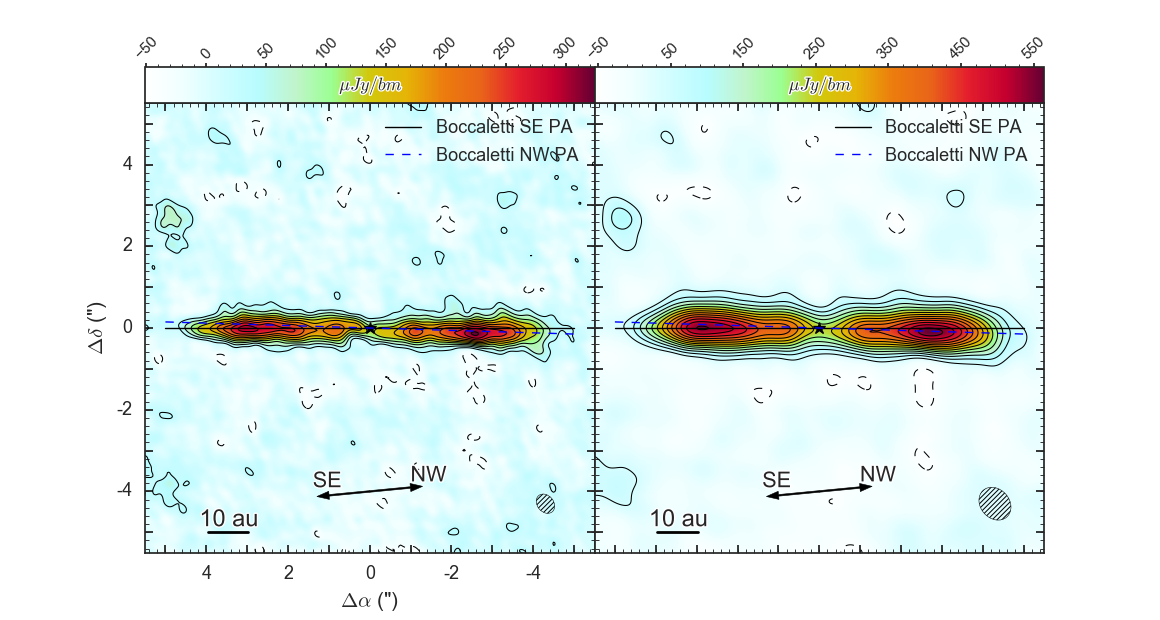
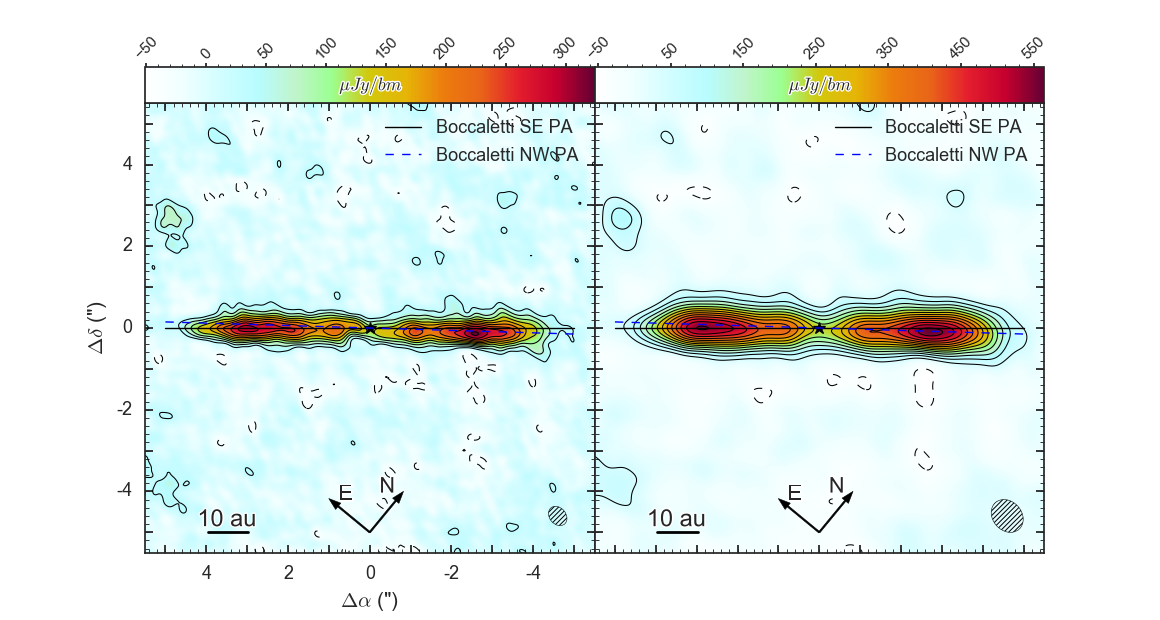
worked on boccaletti plots

diff --git a/Imaging/Plots/contourPlotter+analysis.py b/Imaging/Plots/contourPlotter+analysis.py
@@ -81,11 +81,11 @@ def return_axis(ax, image, cpal, cbmin, cbmax, cbtmj, cbtmn, rms, cont_levs, tex
     # Plot image as a colour map in units of micro Jy
     im = im * 1e6
     cmap = ax.imshow(im,
-                      extent=[cxmin, cxmax, cymin, cymax],
-                      vmin=np.min(im),
-                      vmax=np.max(im),
-                      origin='lower',
-                      cmap=cpal)
+                     extent=[cxmin, cxmax, cymin, cymax],
+                     vmin=np.min(im),
+                     vmax=np.max(im),
+                     origin='lower',
+                     cmap=cpal)
 
     # Scale countour levels to micro Jy and plot contours
     cont_levs = cont_levs * rms * 1e6
@@ -139,14 +139,14 @@ def return_axis(ax, image, cpal, cbmin, cbmax, cbtmj, cbtmn, rms, cont_levs, tex
 
     # Colorbar label
     cbar.ax.text(0.432, 0.365, r'$\mu Jy / bm$', fontsize=13,
-             path_effects=[PathEffects.withStroke(linewidth=2, foreground="w")])
+                 path_effects=[PathEffects.withStroke(linewidth=2, foreground="w")])
 
     # Overplot the beam ellipse
     beam_ellipse_color = 'k'
     bmin = head['bmin'] * 3600.
     bmaj = head['bmaj'] * 3600.
     bpa = head['bpa']
-    el = Ellipse(xy=[-4.3, -4.3],
+    el = Ellipse(xy=[-4.6, -4.6],
                  width=bmin,
                  height=bmaj,
                  angle=-bpa + angleSE,
@@ -160,7 +160,7 @@ def return_axis(ax, image, cpal, cbmin, cbmax, cbtmj, cbtmn, rms, cont_levs, tex
     x = 3.97
     y = -5
     ax.plot([x, x - 1], [y, y], '-', linewidth=2, color='k')
-    ax.text(x + 0.2, y + 0.15, "10 au", fontsize=17,
+    ax.text(x + 0.25, y + 0.15, "10 au", fontsize=17,
             path_effects=[PathEffects.withStroke(linewidth=2, foreground="w")])
 
     # Plot a cross at the source position
@@ -175,10 +175,14 @@ def return_axis(ax, image, cpal, cbmin, cbmax, cbtmj, cbtmn, rms, cont_levs, tex
     legend = ax.legend()
 
     # Add cardinal directions:
-    ax.arrow(0, -4, np.cos(np.radians(90+45 + angleSE)), np.sin(np.radians(90+45 + angleSE)), width=0.04, head_width=0.2, head_length=0.3, fc='k', ec='k')
-    ax.text(0+np.cos(np.radians(90+45 + angleSE)), -4+np.sin(np.radians(90+45 + angleSE))+0.15, 'NW', path_effects=[PathEffects.withStroke(linewidth=2, foreground="w")])
-    ax.arrow(0, -4, np.cos(np.radians(-90+45 + angleSE)), np.sin(np.radians(-90+45 + angleSE)), width=0.04, head_width=0.2, head_length=0.3, fc='k', ec='k')
-    ax.text(0+np.cos(np.radians(-90+45 + angleSE))+0.4, -4+np.sin(np.radians(-90+45 + angleSE))+0.2, 'SE', path_effects=[PathEffects.withStroke(linewidth=2, foreground="w")])
+    y = -5
+    ax.arrow(0, y, np.cos(np.radians(angleSE)), np.sin(np.radians(angleSE)),
+             width=0.04, head_width=0.2, head_length=0.3, fc='k', ec='k')
+    ax.text(0 + np.cos(np.radians(angleSE)), y + np.sin(np.radians(angleSE)) + 0.15,
+            'E', path_effects=[PathEffects.withStroke(linewidth=2, foreground="w")])
+    ax.arrow(0, y, np.cos(np.radians(90 + angleSE)), np.sin(np.radians(90 + angleSE)), width=0.04, head_width=0.2, head_length=0.3, fc='k', ec='k')
+    ax.text(0 + np.cos(np.radians(90 + angleSE)) + 0.4, y + np.sin(np.radians(90 + angleSE)
+                                                                    ) + 0.2, 'N', path_effects=[PathEffects.withStroke(linewidth=2, foreground="w")])
 
     # Add figure text
     # if text:
@@ -196,40 +200,40 @@ sns.set_context("talk")
 
 # Set colorpalette
 from my_colormaps import *
-cpals=[cubehelix_1, cubehelix_2, cubehelix_3, jesse_reds]
-colorsaves=['cubehelix_1', 'cubehelix_2', 'cubehelix_3', 'jesse_reds']
-which_cpal=3
+cpals = [cubehelix_1, cubehelix_2, cubehelix_3, jesse_reds]
+colorsaves = ['cubehelix_1', 'cubehelix_2', 'cubehelix_3', 'jesse_reds']
+which_cpal = 3
 
 # Create figure
-fig, (natural_ax, taper_ax)=plt.subplots(
-    1, 2, sharex = False, sharey = False, figsize = (11.6, 6.2))
+fig, (natural_ax, taper_ax) = plt.subplots(
+    1, 2, sharex=False, sharey=False, figsize=(11.6, 6.2))
 
 # Plot subplots on seperate axes
-return_axis(ax = natural_ax,
-            image = 'aumic_usermask_natural',
-            cpal = cpals[which_cpal],
-            cbmin = -50,
-            cbmax = 301,
-            cbtmj = 50,
-            cbtmn = 10,
-            rms =  1.592382e-05,
-            cont_levs = np.arange(2, 40, 2),
-            text = [(4.8, 4.4, 'AU Mic ALMA 1.4mm'),
+return_axis(ax=natural_ax,
+            image='aumic_usermask_natural',
+            cpal=cpals[which_cpal],
+            cbmin=-50,
+            cbmax=301,
+            cbtmj=50,
+            cbtmn=10,
+            rms=1.592382e-05,
+            cont_levs=np.arange(2, 40, 2),
+            text=[(4.8, 4.4, 'AU Mic ALMA 1.4mm'),
                   (4.43, 3.95, 'natural weighting')])
 
-return_axis(ax = taper_ax,
-            image = 'aumic_usermask_natural_200klam',
-            cpal = cpals[which_cpal],
-            cbmin = -50,
-            cbmax = 551,
-            cbtmj = 100,
-            cbtmn = 20,
-            rms = 2.094688e-05,
-            cont_levs = np.arange(2, 40, 2),
-            text = [(4.8, 4.4, 'AU Mic ALMA 1.4mm'),
+return_axis(ax=taper_ax,
+            image='aumic_usermask_natural_200klam',
+            cpal=cpals[which_cpal],
+            cbmin=-50,
+            cbmax=551,
+            cbtmj=100,
+            cbtmn=20,
+            rms=2.094688e-05,
+            cont_levs=np.arange(2, 40, 2),
+            text=[(4.8, 4.4, 'AU Mic ALMA 1.4mm'),
                   (4, 3.95, r'200k$\lambda$ taper')])
 
-plt.subplots_adjust(wspace = 0)
+plt.subplots_adjust(wspace=0)
 
 # Save and show figure
 plt.savefig('AU_mic_naturaltaper_PA_lines.png')

diff --git a/Imaging/Plots/boccaletti_plots.py b/Imaging/Plots/boccaletti_plots.py
@@ -6,17 +6,17 @@ import seaborn as sns
 import numpy as np
 
 
+# image = 'aumic_18aug_usermask_natural'
+# image = 'aumic_24jun_usermask_natural'
 image = 'aumic_usermask_natural'
-intensity=True
-spine=False
 
 # Read the header from the observed FITS continuum image:
 head = fits.getheader(image + ".fits")
+print(head)
 # Read in images and rotate so that disk is horizontal
 angleSE = 129.5 - 90
 im = rotate(fits.getdata(image + ".fits").squeeze(),
             angleSE, reshape=False) * 1e6
-im[:, :40] = 0
 
 # Generate x and y axes: offset position in arcsec
 nx = head['NAXIS1']
@@ -30,47 +30,56 @@ ydelt = head['CDELT2']
 # Convert from degrees to arcsecs
 ra = ((np.arange(nx) - xpix + 1) * xdelt) * 3600
 dec = ((np.arange(ny) - ypix + 1) * ydelt) * 3600
+xaxis = ra[257:]
+print(xaxis[0])
+print(dec[257])
 
-raSE = ra[:257]
-print(ra[:15])
+fig, (ax1, ax2, ax3) = plt.subplots(3, sharex=True)
+sns.set_style('whitegrid')
 
-if intensity == True:
-    midplane_intensity = np.zeros(len(raSE))
-    for i in range(len(raSE)):
-        midplane_intensity[i] = np.mean(im[255:258, i])
+SE_midplane_intensity = np.zeros(len(xaxis))
+NW_midplane_intensity = np.zeros(len(xaxis))
+for i in range(len(xaxis)):
+    NW_midplane_intensity[i] = np.mean(im[255:258, 257+i])
+    SE_midplane_intensity[i] = np.mean(im[255:258, 256-i])
 
-    sns.set_style('whitegrid')
-    fig, ax = plt.subplots()
-    ax.set_title("Midplane intensity")
-    ax.set_xlabel("Projected seperation from star (\")")
-    ax.set_ylabel(r"Surface brightness ($\mu$Jy)...")
-    ax.set_xlim(0, 7)
-    ax.set_ylim(-50, 350)
-    ax.plot(ra[:257], midplane_intensity)
-    # ax.invert_xaxis()
-    fig.savefig('midplane_intensity.png')
-    plt.show()
+ax1.set_title("Midplane intensity")
+ax1.set_ylabel(r"Surface brightness ($\mu$Jy/beam)...")
+ax1.set_xlim(0, 6)
+ax1.set_ylim(-50, 350)
+ax1.plot(xaxis, NW_midplane_intensity, label='NW')
+ax1.plot(xaxis, SE_midplane_intensity, label='SE')
+legend1 = ax1.legend()
 
-if spine == True:
-    # Define model Gaussian function:
-    def gauss(x, *p):
-        A, mu, sigma = p
-        return A*np.exp(-(x-mu)**2/(2.*sigma**2))
 
-    p0 = [100., 0., 0.3]
-    bounds = ([-50, -0.5, 0], [400, 0.5, 1])
-    amps, mus, sigmas = np.zeros(len(raSE)), np.zeros(len(raSE)), np.zeros(len(raSE))
+# Define model Gaussian function:
+def gauss(x, *p):
+    A, mu, sigma = p
+    return A*np.exp(-(x-mu)**2/(2.*sigma**2))
 
-    for i in range(256):
-        (amps[i], mus[i], sigmas[i]), var_matrix = curve_fit(gauss, dec[256-35:256+35], im[256-35:256+35,len(raSE)-i], p0=p0)
+p0 = [100., 0., 0.3]
+bounds = ([-50, -0.5, 0], [400, 0.5, 1])
+NW_amps, NW_mus, NW_sigmas = np.zeros(len(xaxis)), np.zeros(len(xaxis)), np.zeros(len(xaxis))
+SE_amps, SE_mus, SE_sigmas = np.zeros(len(xaxis)), np.zeros(len(xaxis)), np.zeros(len(xaxis))
 
-    sns.set_style('whitegrid')
-    fig, ax = plt.subplots()
-    ax.set_title("Gaussian fit statistics")
-    ax.set_xlabel("Projected seperation from star (\")")
-    ax.set_ylabel(r"")
-    ax.set_xlim(0, 6)
-    ax.plot(raSE[::-1], sigmas)
-    ax.invert_xaxis()
-    fig.savefig("gauss_fit.png")
-    plt.show()
+for i in range(len(xaxis)):
+    (NW_amps[i], NW_mus[i], NW_sigmas[i]), NW_var_matrix = curve_fit(gauss, dec[256-35:256+35], im[256-35:256+35,257+i], p0=p0)
+    (SE_amps[i], SE_mus[i], SE_sigmas[i]), SE_var_matrix = curve_fit(gauss, dec[256-35:256+35], im[256-35:256+35,256-i], p0=p0)
+
+# ax2.set_title("Spine elevation from midplane")
+ax2.set_xlabel("Projected seperation from star (\")")
+ax2.set_ylabel("Spine elevation from midplane")
+ax2.set_xlim(0, 6)
+ax2.plot(xaxis, NW_mus, label='NW')
+ax2.plot(xaxis, SW_mus, label='SE')
+legend2 = ax2.legend()
+
+ax3.set_xlabel("Projected seperation from star (\")")
+ax2.set_ylabel("Disk FWHM")
+ax2.set_xlim(0, 6)
+ax2.plot(xaxis, NW_sigmas, label='NW')
+ax2.plot(xaxis, SW_sigmas, label='SE')
+legend3 = ax3.legend()
+
+fig.savefig("boccaletti_plots.png")
+fig.show()
